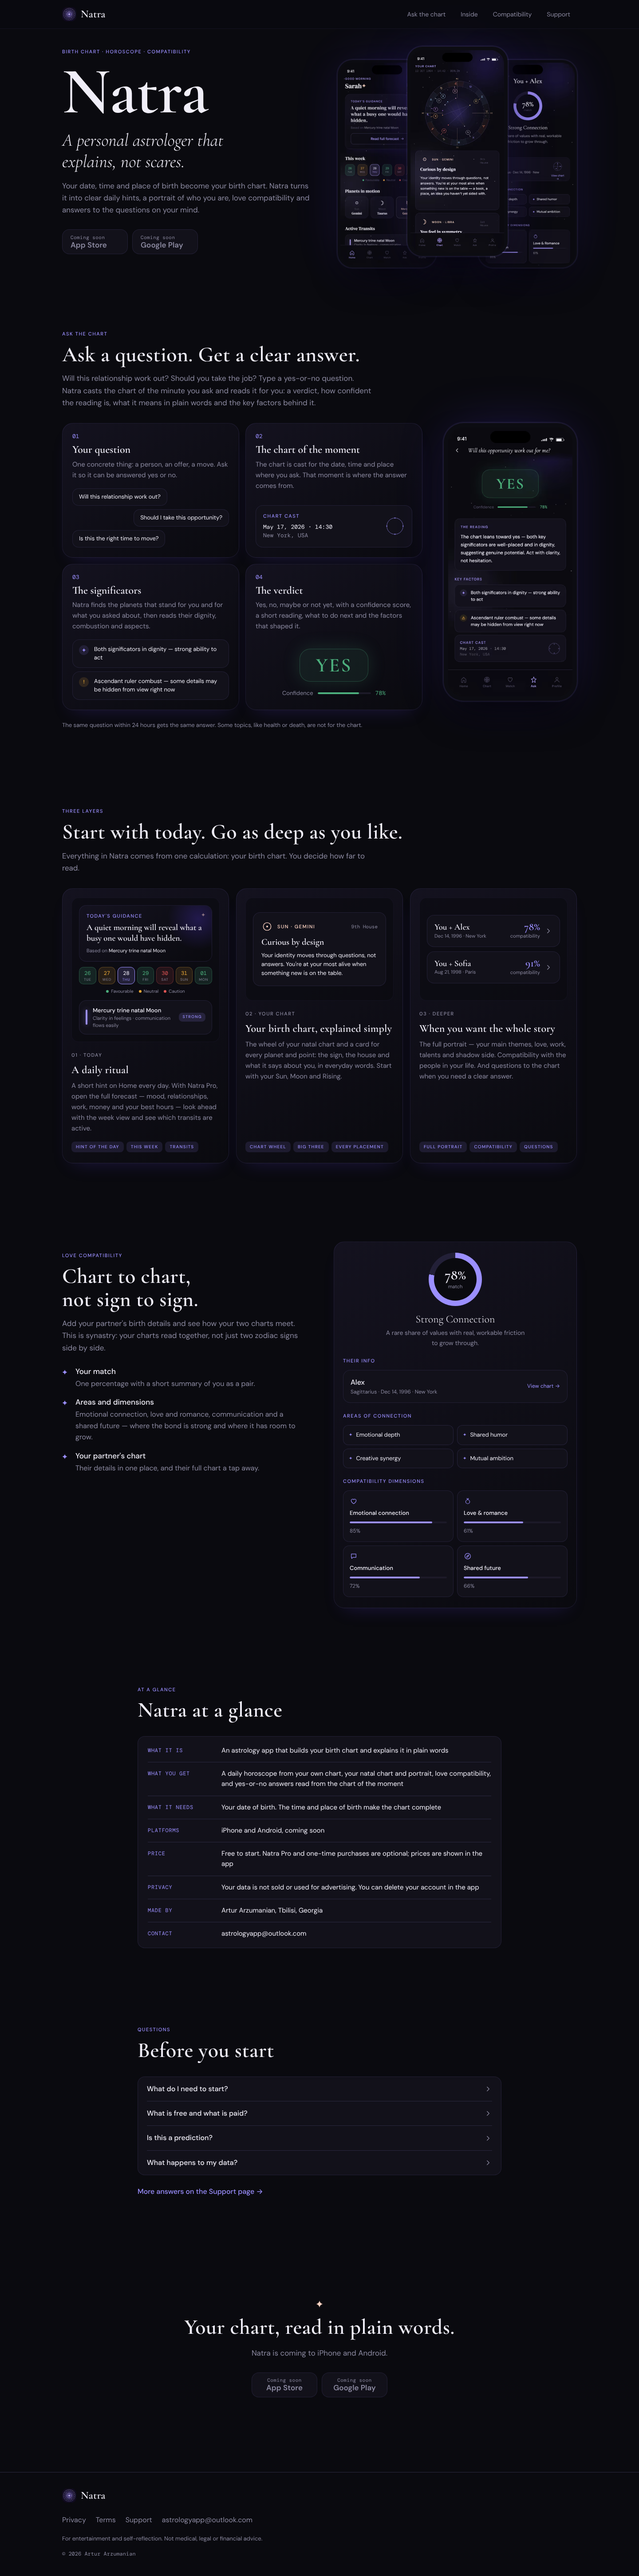
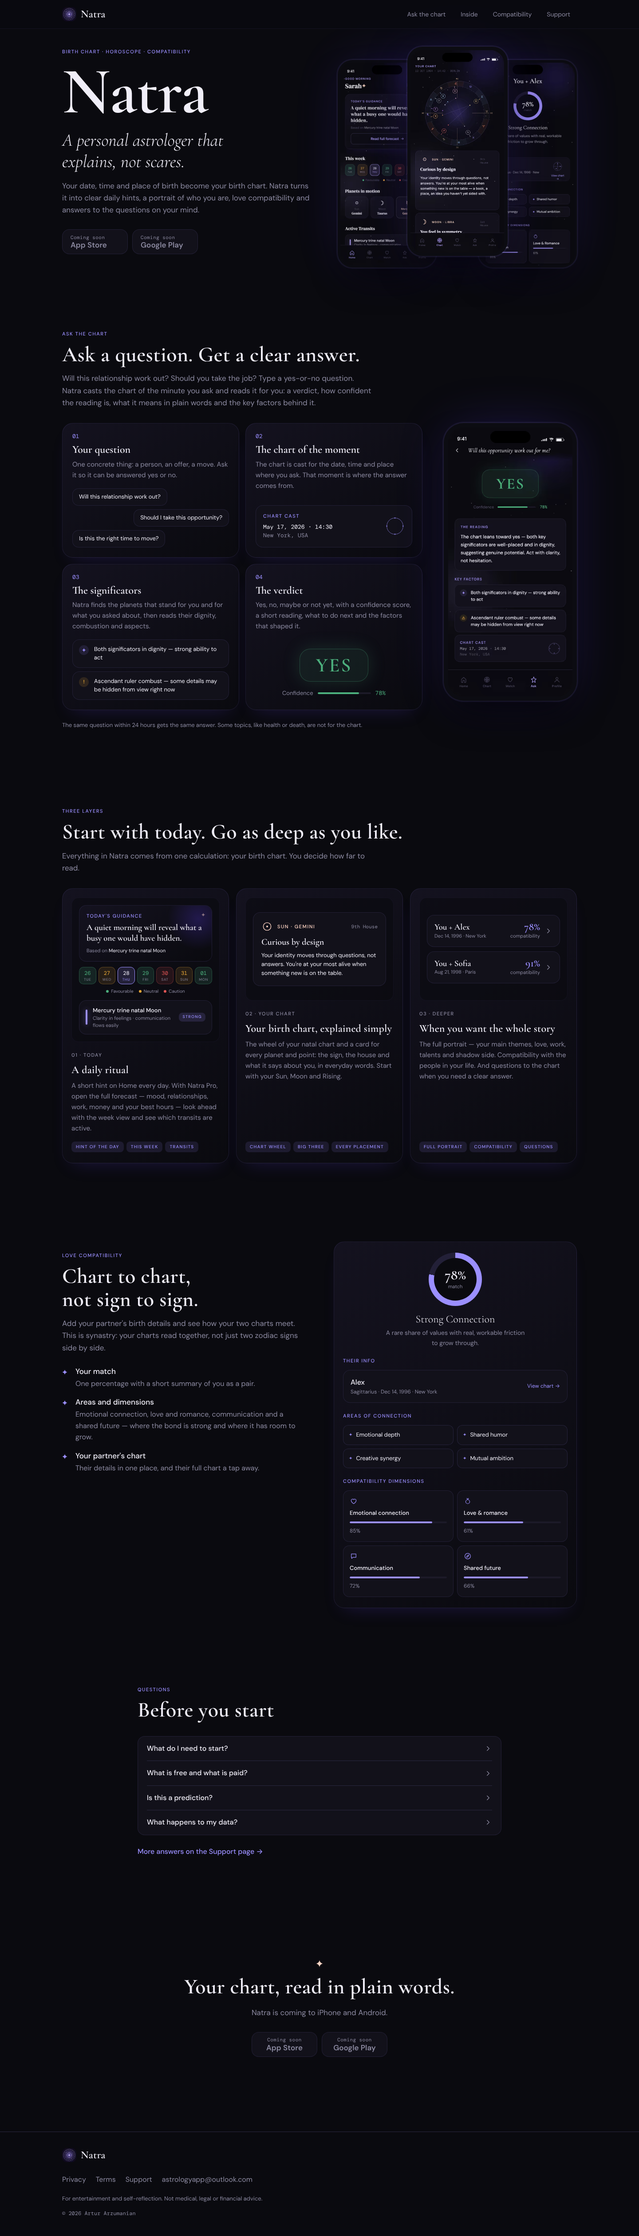
Remove the visible 'Natra at a glance' block from the landing
The facts stay where AI assistants read them: llms.txt, /index.md and
the Schema.org graph. Showing text only to bots would count as cloaking,
so the block is removed from the page rather than hidden.

Claude-Session: https://claude.ai/code/session_01Db4r3boD4jLkqRsEkMRjZv

diff --git a/src/styles/site.css b/src/styles/site.css
@@ -1234,47 +1234,6 @@ a.store:hover {
   color: var(--text-2);
 }
 
-/* ---------- At a glance (facts list, mono keys) ---------- */
-
-.facts {
-  margin: 0;
-  padding: 6px 22px;
-  border-radius: var(--r);
-  background: var(--bg-2);
-  box-shadow: none;
-}
-.facts__row {
-  display: grid;
-  grid-template-columns: 150px minmax(0, 1fr);
-  gap: 16px;
-  padding: 14px 0;
-}
-.facts__row + .facts__row {
-  border-top: 1px solid var(--divider);
-}
-.facts dt {
-  font: 400 12px/1.6 var(--mono);
-  letter-spacing: 0.06em;
-  text-transform: uppercase;
-  color: var(--accent);
-  padding-top: 2px;
-}
-.facts dd {
-  margin: 0;
-  font-size: 15px;
-  line-height: 1.55;
-  color: var(--text);
-}
-@media (max-width: 559px) {
-  .facts {
-    padding: 4px 16px;
-  }
-  .facts__row {
-    grid-template-columns: 1fr;
-    gap: 4px;
-  }
-}
-
 /* ---------- Accordion (app FAQ): landing FAQ and Support ---------- */
 
 .acc {

diff --git a/README.md b/README.md
@@ -189,10 +189,9 @@ reports/                  отчёт и скриншоты страниц
 | `llms-full.txt`: все тексты сайта одним файлом | `/llms-full.txt` | Полный контекст без вёрстки |
 | Markdown-копии страниц: `/index.md`, `/support.md`, `/privacy.md`, `/terms.md` | ссылка `rel="alternate" type="text/markdown"` на каждой странице | Агенты читают их без HTML-шума; заголовок `Link: rel=canonical` ведёт на основную страницу |
 | Разметка Schema.org одним графом: Organization, WebSite, WebPage, MobileApplication (функции, скриншоты, категория, ключевые слова), FAQPage на главной и в Support, ContactPage, даты документов | `<script type="application/ld+json">` | Google и ассистенты понимают, что это приложение, кто его делает и что оно умеет |
-| Видимый блок «Natra at a glance»: факты списком «ключ — значение» | главная | Такие блоки модели охотно цитируют дословно |
 | `meta robots`: `max-snippet:-1, max-image-preview:large` | все страницы | Разрешает длинные цитаты и крупные превью |
 
-Тексты для агентов лежат в `content/en/site.json` → `agents` и `landing.facts`. Меняйте их там: `llms.txt`, Markdown-копии и разметка пересоберутся сами.
+Тексты для агентов лежат в `content/en/site.json` → `agents` и `landing.facts` (факты «Natra at a glance» попадают только в `llms.txt` и `/index.md`, на странице их нет). Меняйте их там: `llms.txt`, Markdown-копии и разметка пересоберутся сами.
 
 **Важно.** Gemini опирается на индекс Google, ChatGPT и Copilot — в основном на индекс Bing. Поэтому главное — чтобы сайт попал в эти индексы. Это делается один раз, вручную:
 

diff --git a/reports/30-site.md b/reports/30-site.md
@@ -323,3 +323,6 @@ Lighthouse 12.8.2, headless Chromium, сайт отдавался через `np
 - Lighthouse (мобильный): главная **99 / 100 / 100 / 100**, Support и Privacy — 100 / 100 / 100 / 100. Главная: LCP 2,2 с, CLS 0.
 - `npm run check`: Privacy и Terms совпадают с `.md` слово в слово.
 - Поведение (Chromium и WebKit): меню закрывается после выбора пункта, карусели переключают точки, гармошка открывает один вопрос, `/support#delete-account` открывает нужный вопрос ниже шапки, страницы открываются сверху, ошибок в консоли нет.
+
+### v3.1
+- Блок «Natra at a glance» убран со страницы по решению владельца. Прятать текст от людей и показывать его только ботам нельзя: поисковики считают это уловкой (cloaking). Те же факты остаются там, где их читают агенты: `llms.txt`, `/index.md` и разметка Schema.org (описание приложения, список функций, организация, FAQ).
